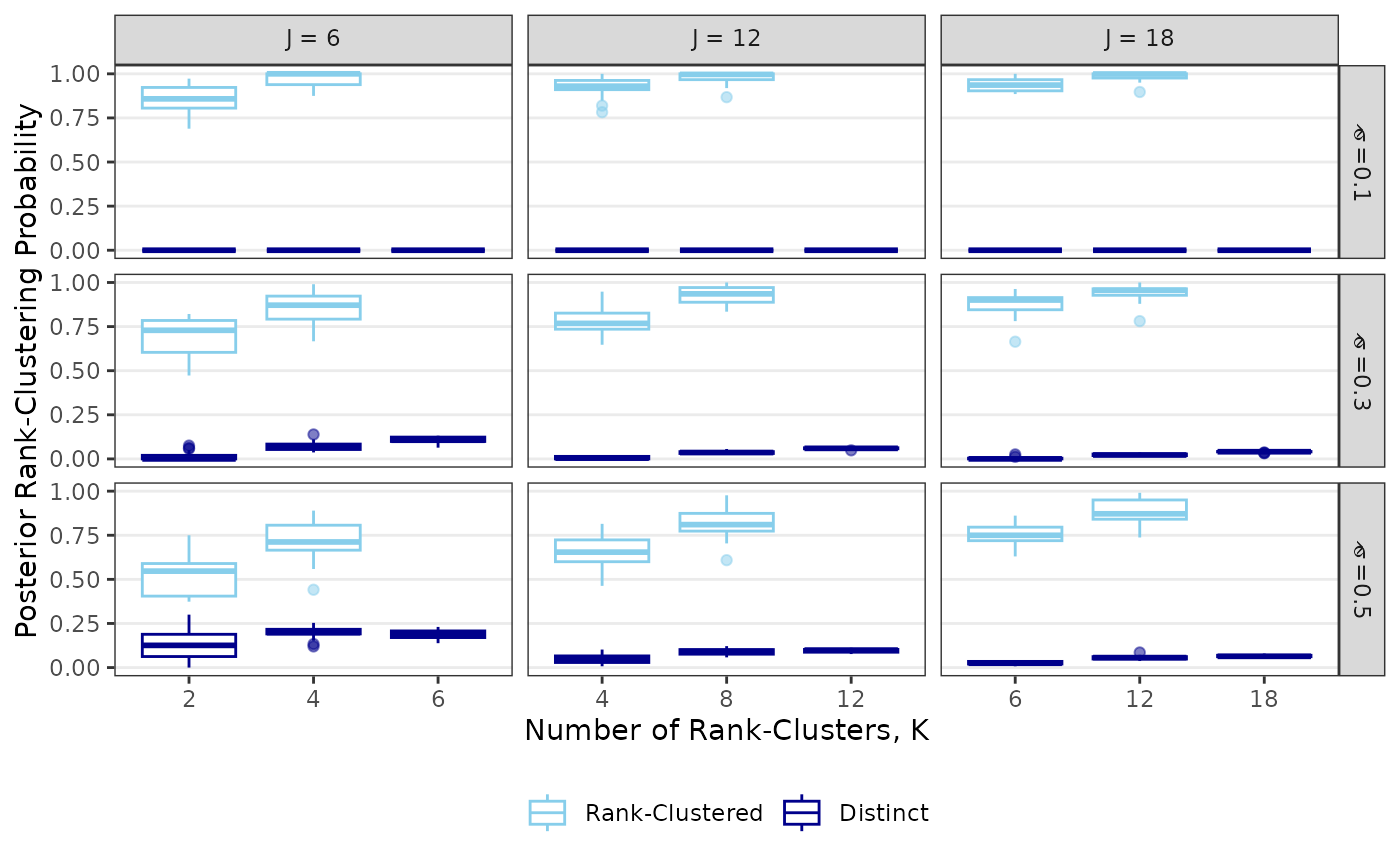
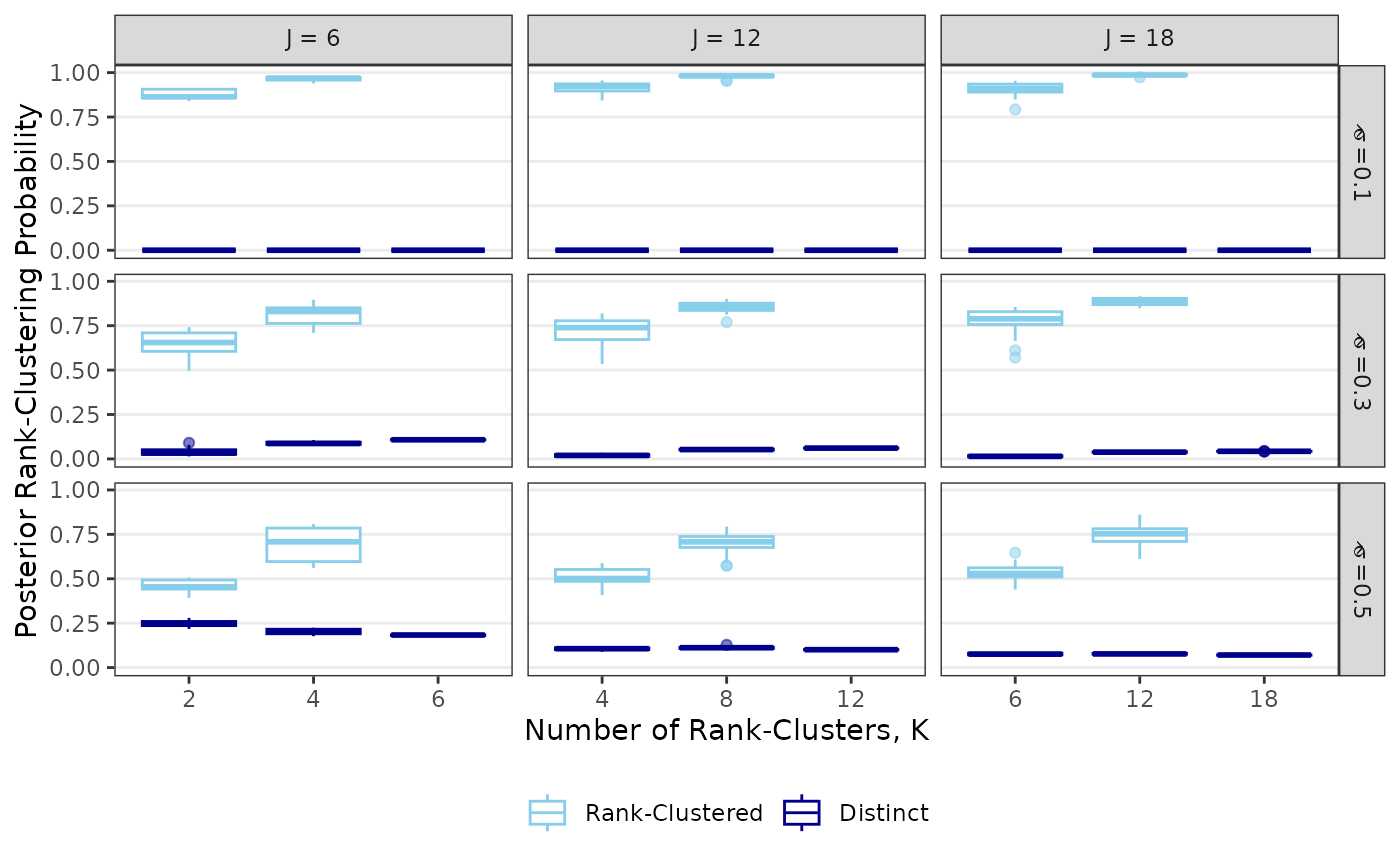
Deploying to gh-pages from @ pearce790/RaCE.NMA@0c8ff6c6c42346b1e51562351a6ad91a7738d62a 🚀

diff --git a/articles/reproducibility.html b/articles/reproducibility.html
@@ -116,9 +116,7 @@ refer to the “Tutorial” and “Reference” pages for more information.</p>
 <span>  <span class="fu"><a href="https://ggplot2.tidyverse.org/reference/geom_function.html" class="external-link">stat_function</a></span><span class="op">(</span>fun <span class="op">=</span> <span class="va">dnorm</span>, args <span class="op">=</span> <span class="fu"><a href="https://rdrr.io/r/base/list.html" class="external-link">list</a></span><span class="op">(</span>mean <span class="op">=</span> <span class="fl">1</span>, sd <span class="op">=</span><span class="va">s</span><span class="op">)</span><span class="op">)</span><span class="op">+</span></span>
 <span>  <span class="fu"><a href="https://ggplot2.tidyverse.org/reference/ggtheme.html" class="external-link">theme_bw</a></span><span class="op">(</span><span class="op">)</span><span class="op">+</span><span class="fu"><a href="https://ggplot2.tidyverse.org/reference/labs.html" class="external-link">labs</a></span><span class="op">(</span>x<span class="op">=</span><span class="st">" "</span>,y<span class="op">=</span><span class="fu"><a href="https://ggplot2.tidyverse.org/reference/element.html" class="external-link">element_blank</a></span><span class="op">(</span><span class="op">)</span>,title<span class="op">=</span><span class="fu"><a href="https://rdrr.io/r/base/expression.html" class="external-link">expression</a></span><span class="op">(</span><span class="fu"><a href="https://rdrr.io/r/stats/influence.measures.html" class="external-link">hat</a></span><span class="op">(</span><span class="va">sigma</span><span class="op">)</span><span class="op">~</span><span class="st">"=0.5"</span><span class="op">)</span><span class="op">)</span><span class="op">+</span></span>
 <span>  <span class="fu"><a href="https://ggplot2.tidyverse.org/reference/theme.html" class="external-link">theme</a></span><span class="op">(</span>panel.grid.minor <span class="op">=</span> <span class="fu"><a href="https://ggplot2.tidyverse.org/reference/element.html" class="external-link">element_blank</a></span><span class="op">(</span><span class="op">)</span>,panel.grid.major.y <span class="op">=</span> <span class="fu"><a href="https://ggplot2.tidyverse.org/reference/element.html" class="external-link">element_blank</a></span><span class="op">(</span><span class="op">)</span><span class="op">)</span></span>
-<span><span class="fu"><a href="https://rdrr.io/pkg/gridExtra/man/arrangeGrob.html" class="external-link">grid.arrange</a></span><span class="op">(</span><span class="va">g1a</span>,<span class="va">g1b</span>,<span class="va">g1c</span>,nrow<span class="op">=</span><span class="fl">1</span><span class="op">)</span></span>
-<span><span class="co">## Warning: `label` cannot be a <span style="color: #0000BB;">&lt;ggplot2::element_blank&gt;</span> object.</span></span>
-<span><span class="co">## `label` cannot be a <span style="color: #0000BB;">&lt;ggplot2::element_blank&gt;</span> object.</span></span></code></pre></div>
+<span><span class="fu"><a href="https://rdrr.io/pkg/gridExtra/man/arrangeGrob.html" class="external-link">grid.arrange</a></span><span class="op">(</span><span class="va">g1a</span>,<span class="va">g1b</span>,<span class="va">g1c</span>,nrow<span class="op">=</span><span class="fl">1</span><span class="op">)</span></span></code></pre></div>
 <p><img src="reproducibility_files/figure-html/unnamed-chunk-3-1.png" class="r-plt" width="700"></p>
 <p>The following code reproduces Figure 2: First, we perform a
 simulation study. Second, we create the figure.</p>
@@ -137,9 +135,8 @@ simulation study. Second, we create the figure.</p>
 <span>          <span class="kw">while</span><span class="op">(</span><span class="fu"><a href="https://rdrr.io/r/base/length.html" class="external-link">length</a></span><span class="op">(</span><span class="fu"><a href="https://rdrr.io/r/base/unique.html" class="external-link">unique</a></span><span class="op">(</span><span class="va">ybar</span><span class="op">)</span><span class="op">)</span><span class="op">&lt;</span><span class="va">K</span><span class="op">)</span><span class="op">{</span><span class="va">ybar</span> <span class="op">&lt;-</span> <span class="fu"><a href="https://rdrr.io/r/base/sample.html" class="external-link">sample</a></span><span class="op">(</span><span class="fl">1</span><span class="op">:</span><span class="va">K</span>,<span class="va">J</span>,replace<span class="op">=</span><span class="cn">T</span><span class="op">)</span><span class="op">}</span></span>
 <span>        <span class="op">}</span></span>
 <span>        </span>
-<span>        <span class="co"># For expediency, we set num_iters=50. To exactly reproduce values in the paper, set num_iters=5000</span></span>
 <span>        <span class="va">mcmc</span> <span class="op">&lt;-</span> <span class="fu"><a href="../reference/mcmc_RCMVN.html">mcmc_RCMVN</a></span><span class="op">(</span>ybar<span class="op">=</span><span class="va">ybar</span>,s<span class="op">=</span><span class="fu"><a href="https://rdrr.io/r/base/rep.html" class="external-link">rep</a></span><span class="op">(</span><span class="va">s</span>,<span class="va">J</span><span class="op">)</span>,mu<span class="op">=</span><span class="fu"><a href="https://rdrr.io/r/base/mean.html" class="external-link">mean</a></span><span class="op">(</span><span class="va">ybar</span><span class="op">)</span>,sigma0<span class="op">=</span><span class="fu"><a href="https://rdrr.io/r/base/Extremes.html" class="external-link">max</a></span><span class="op">(</span><span class="fl">1</span>,<span class="fl">4</span><span class="op">*</span><span class="fu"><a href="https://rdrr.io/r/stats/sd.html" class="external-link">sd</a></span><span class="op">(</span><span class="va">ybar</span><span class="op">)</span><span class="op">)</span>,nu0<span class="op">=</span><span class="va">ybar</span>,</span>
-<span>                           tau<span class="op">=</span><span class="fl">1</span>,num_iters<span class="op">=</span><span class="fl">50</span>,nu_reps<span class="op">=</span><span class="fl">2</span>,chains<span class="op">=</span><span class="fl">4</span>,burn_prop<span class="op">=</span><span class="fl">0.5</span>,thin<span class="op">=</span><span class="fl">3</span>,suppressPrint <span class="op">=</span> <span class="cn">TRUE</span><span class="op">)</span></span>
+<span>                           tau<span class="op">=</span><span class="fl">1</span>,num_iters<span class="op">=</span><span class="fl">5000</span>,nu_reps<span class="op">=</span><span class="fl">2</span>,chains<span class="op">=</span><span class="fl">4</span>,burn_prop<span class="op">=</span><span class="fl">0.5</span>,thin<span class="op">=</span><span class="fl">3</span>,suppressPrint <span class="op">=</span> <span class="cn">TRUE</span><span class="op">)</span></span>
 <span>        </span>
 <span>        <span class="va">equal</span> <span class="op">&lt;-</span> <span class="va">posterior_equal</span> <span class="op">&lt;-</span> <span class="fu"><a href="https://rdrr.io/r/base/matrix.html" class="external-link">matrix</a></span><span class="op">(</span><span class="cn">NA</span>,nrow<span class="op">=</span><span class="va">J</span>,ncol<span class="op">=</span><span class="va">J</span><span class="op">)</span></span>
 <span>        <span class="kw">for</span><span class="op">(</span><span class="va">i</span> <span class="kw">in</span> <span class="fl">1</span><span class="op">:</span><span class="op">(</span><span class="va">J</span><span class="op">-</span><span class="fl">1</span><span class="op">)</span><span class="op">)</span><span class="op">{</span><span class="kw">for</span><span class="op">(</span><span class="va">j</span> <span class="kw">in</span> <span class="op">(</span><span class="va">i</span><span class="op">+</span><span class="fl">1</span><span class="op">)</span><span class="op">:</span><span class="va">J</span><span class="op">)</span><span class="op">{</span></span>
@@ -168,8 +165,7 @@ simulation study. Second, we create the figure.</p>
 <span>  <span class="fu"><a href="https://ggplot2.tidyverse.org/reference/labs.html" class="external-link">labs</a></span><span class="op">(</span>x<span class="op">=</span><span class="st">"Number of Rank-Clusters, K"</span>,y<span class="op">=</span><span class="st">"Posterior Rank-Clustering Probability"</span>,</span>
 <span>       color<span class="op">=</span><span class="fu"><a href="https://ggplot2.tidyverse.org/reference/element.html" class="external-link">element_blank</a></span><span class="op">(</span><span class="op">)</span><span class="op">)</span><span class="op">+</span></span>
 <span>  <span class="fu"><a href="https://ggplot2.tidyverse.org/reference/theme.html" class="external-link">theme</a></span><span class="op">(</span>legend.position <span class="op">=</span> <span class="st">"bottom"</span>,panel.grid.minor <span class="op">=</span> <span class="fu"><a href="https://ggplot2.tidyverse.org/reference/element.html" class="external-link">element_blank</a></span><span class="op">(</span><span class="op">)</span>,</span>
-<span>        panel.grid.major.x <span class="op">=</span> <span class="fu"><a href="https://ggplot2.tidyverse.org/reference/element.html" class="external-link">element_blank</a></span><span class="op">(</span><span class="op">)</span><span class="op">)</span></span>
-<span><span class="co">## Warning: `label` cannot be a <span style="color: #0000BB;">&lt;ggplot2::element_blank&gt;</span> object.</span></span></code></pre></div>
+<span>        panel.grid.major.x <span class="op">=</span> <span class="fu"><a href="https://ggplot2.tidyverse.org/reference/element.html" class="external-link">element_blank</a></span><span class="op">(</span><span class="op">)</span><span class="op">)</span></span></code></pre></div>
 <p><img src="reproducibility_files/figure-html/unnamed-chunk-4-1.png" class="r-plt" width="700"></p>
 </div>
 <div class="section level2">
@@ -306,10 +302,7 @@ create each in turn.</p>
 <span><span class="va">g9b</span> <span class="op">&lt;-</span> <span class="fu"><a href="../reference/create_clustermatrix.html">create_clustermatrix</a></span><span class="op">(</span><span class="va">mcmc</span>,<span class="va">treatments</span>,<span class="fl">1</span><span class="op">)</span><span class="op">+</span><span class="fu"><a href="https://ggplot2.tidyverse.org/reference/theme.html" class="external-link">theme</a></span><span class="op">(</span>legend.position<span class="op">=</span><span class="st">"bottom"</span><span class="op">)</span></span>
 <span><span class="fu"><a href="https://wilkelab.org/cowplot/reference/plot_grid.html" class="external-link">plot_grid</a></span><span class="op">(</span><span class="fu"><a href="https://wilkelab.org/cowplot/reference/plot_grid.html" class="external-link">plot_grid</a></span><span class="op">(</span><span class="va">g9a</span><span class="op">+</span><span class="fu"><a href="https://ggplot2.tidyverse.org/reference/theme.html" class="external-link">theme</a></span><span class="op">(</span>legend.position <span class="op">=</span> <span class="st">"none"</span><span class="op">)</span>, <span class="va">g9b</span><span class="op">+</span><span class="fu"><a href="https://ggplot2.tidyverse.org/reference/theme.html" class="external-link">theme</a></span><span class="op">(</span>legend.position <span class="op">=</span> <span class="st">"none"</span><span class="op">)</span>, </span>
 <span>                        labels <span class="op">=</span> <span class="fu"><a href="https://rdrr.io/r/base/c.html" class="external-link">c</a></span><span class="op">(</span><span class="st">'A'</span>, <span class="st">'B'</span><span class="op">)</span>, label_size <span class="op">=</span> <span class="fl">12</span><span class="op">)</span>,</span>
-<span>              <span class="fu"><a href="https://wilkelab.org/cowplot/reference/get_plot_component.html" class="external-link">get_plot_component</a></span><span class="op">(</span><span class="va">g9a</span>, <span class="st">'guide-box-bottom'</span>, return_all <span class="op">=</span> <span class="cn">TRUE</span><span class="op">)</span>,nrow<span class="op">=</span><span class="fl">2</span>,rel_heights <span class="op">=</span> <span class="fu"><a href="https://rdrr.io/r/base/c.html" class="external-link">c</a></span><span class="op">(</span><span class="fl">.9</span>,<span class="fl">.1</span><span class="op">)</span><span class="op">)</span></span>
-<span><span class="co">## Warning: `label` cannot be a <span style="color: #0000BB;">&lt;ggplot2::element_blank&gt;</span> object.</span></span>
-<span><span class="co">## `label` cannot be a <span style="color: #0000BB;">&lt;ggplot2::element_blank&gt;</span> object.</span></span>
-<span><span class="co">## `label` cannot be a <span style="color: #0000BB;">&lt;ggplot2::element_blank&gt;</span> object.</span></span></code></pre></div>
+<span>              <span class="fu"><a href="https://wilkelab.org/cowplot/reference/get_plot_component.html" class="external-link">get_plot_component</a></span><span class="op">(</span><span class="va">g9a</span>, <span class="st">'guide-box-bottom'</span>, return_all <span class="op">=</span> <span class="cn">TRUE</span><span class="op">)</span>,nrow<span class="op">=</span><span class="fl">2</span>,rel_heights <span class="op">=</span> <span class="fu"><a href="https://rdrr.io/r/base/c.html" class="external-link">c</a></span><span class="op">(</span><span class="fl">.9</span>,<span class="fl">.1</span><span class="op">)</span><span class="op">)</span></span></code></pre></div>
 <p><img src="reproducibility_files/figure-html/unnamed-chunk-10-1.png" class="r-plt" width="700"></p>
 <div class="sourceCode" id="cb11"><pre class="downlit sourceCode r">
 <code class="sourceCode R"><span></span>
@@ -322,8 +315,7 @@ create each in turn.</p>
 <span><span class="va">g10b</span> <span class="op">&lt;-</span> <span class="fu"><a href="../reference/create_cumulativeranking.html">create_cumulativeranking</a></span><span class="op">(</span><span class="va">mcmc</span>,<span class="va">treatments</span><span class="op">)</span></span>
 <span><span class="fu"><a href="https://wilkelab.org/cowplot/reference/plot_grid.html" class="external-link">plot_grid</a></span><span class="op">(</span><span class="fu"><a href="https://wilkelab.org/cowplot/reference/plot_grid.html" class="external-link">plot_grid</a></span><span class="op">(</span><span class="va">g10a</span><span class="op">+</span><span class="fu"><a href="https://ggplot2.tidyverse.org/reference/theme.html" class="external-link">theme</a></span><span class="op">(</span>legend.position <span class="op">=</span> <span class="st">"none"</span><span class="op">)</span>, <span class="va">g10b</span><span class="op">+</span><span class="fu"><a href="https://ggplot2.tidyverse.org/reference/theme.html" class="external-link">theme</a></span><span class="op">(</span>legend.position <span class="op">=</span> <span class="st">"none"</span><span class="op">)</span>, </span>
 <span>                        labels <span class="op">=</span> <span class="fu"><a href="https://rdrr.io/r/base/c.html" class="external-link">c</a></span><span class="op">(</span><span class="st">'A'</span>, <span class="st">'B'</span><span class="op">)</span>, label_size <span class="op">=</span> <span class="fl">12</span><span class="op">)</span>,</span>
-<span>              <span class="fu"><a href="https://wilkelab.org/cowplot/reference/get_plot_component.html" class="external-link">get_plot_component</a></span><span class="op">(</span><span class="va">g10a</span>, <span class="st">'guide-box-bottom'</span>, return_all <span class="op">=</span> <span class="cn">TRUE</span><span class="op">)</span>,nrow<span class="op">=</span><span class="fl">2</span>,rel_heights <span class="op">=</span> <span class="fu"><a href="https://rdrr.io/r/base/c.html" class="external-link">c</a></span><span class="op">(</span><span class="fl">.85</span>,<span class="fl">.15</span><span class="op">)</span><span class="op">)</span></span>
-<span><span class="co">## Warning: `label` cannot be a <span style="color: #0000BB;">&lt;ggplot2::element_blank&gt;</span> object.</span></span></code></pre></div>
+<span>              <span class="fu"><a href="https://wilkelab.org/cowplot/reference/get_plot_component.html" class="external-link">get_plot_component</a></span><span class="op">(</span><span class="va">g10a</span>, <span class="st">'guide-box-bottom'</span>, return_all <span class="op">=</span> <span class="cn">TRUE</span><span class="op">)</span>,nrow<span class="op">=</span><span class="fl">2</span>,rel_heights <span class="op">=</span> <span class="fu"><a href="https://rdrr.io/r/base/c.html" class="external-link">c</a></span><span class="op">(</span><span class="fl">.85</span>,<span class="fl">.15</span><span class="op">)</span><span class="op">)</span></span></code></pre></div>
 <p><img src="reproducibility_files/figure-html/unnamed-chunk-10-2.png" class="r-plt" width="700"></p>
 <div class="sourceCode" id="cb12"><pre class="downlit sourceCode r">
 <code class="sourceCode R"><span></span>
@@ -366,8 +358,7 @@ B).</p>
 <span>                     labels<span class="op">=</span><span class="fu"><a href="https://rdrr.io/r/base/paste.html" class="external-link">paste0</a></span><span class="op">(</span><span class="fu"><a href="https://rdrr.io/r/base/c.html" class="external-link">c</a></span><span class="op">(</span><span class="fl">125</span>, <span class="fl">150</span>, <span class="fl">175</span>,<span class="fl">200</span>,<span class="fl">225</span>,<span class="fl">250</span><span class="op">)</span>,<span class="st">"k"</span><span class="op">)</span><span class="op">)</span></span></code></pre></div>
 <p><img src="reproducibility_files/figure-html/unnamed-chunk-11-2.png" class="r-plt" width="700"></p>
 <div class="sourceCode" id="cb15"><pre class="downlit sourceCode r">
-<code class="sourceCode R"><span><span class="fu"><a href="../reference/create_forestplot.html">create_forestplot</a></span><span class="op">(</span><span class="va">mcmc</span>,names<span class="op">=</span><span class="va">treatments</span><span class="op">)</span></span>
-<span><span class="co">## Warning: `label` cannot be a <span style="color: #0000BB;">&lt;ggplot2::element_blank&gt;</span> object.</span></span></code></pre></div>
+<code class="sourceCode R"><span><span class="fu"><a href="../reference/create_forestplot.html">create_forestplot</a></span><span class="op">(</span><span class="va">mcmc</span>,names<span class="op">=</span><span class="va">treatments</span><span class="op">)</span></span></code></pre></div>
 <p><img src="reproducibility_files/figure-html/unnamed-chunk-11-3.png" class="r-plt" width="700"></p>
 </div>
   </div>
